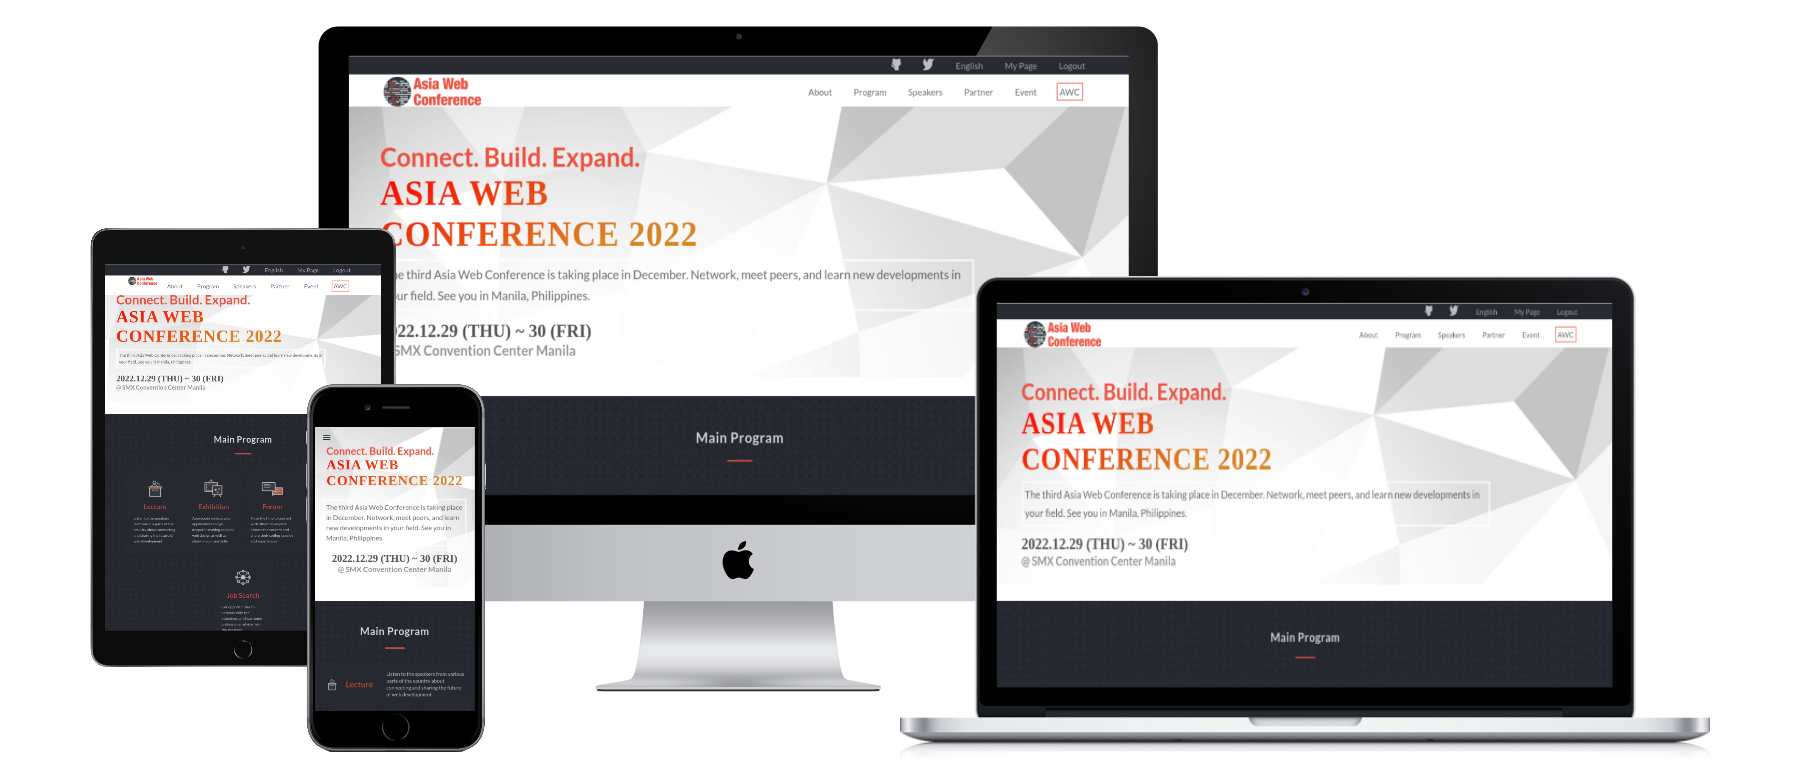
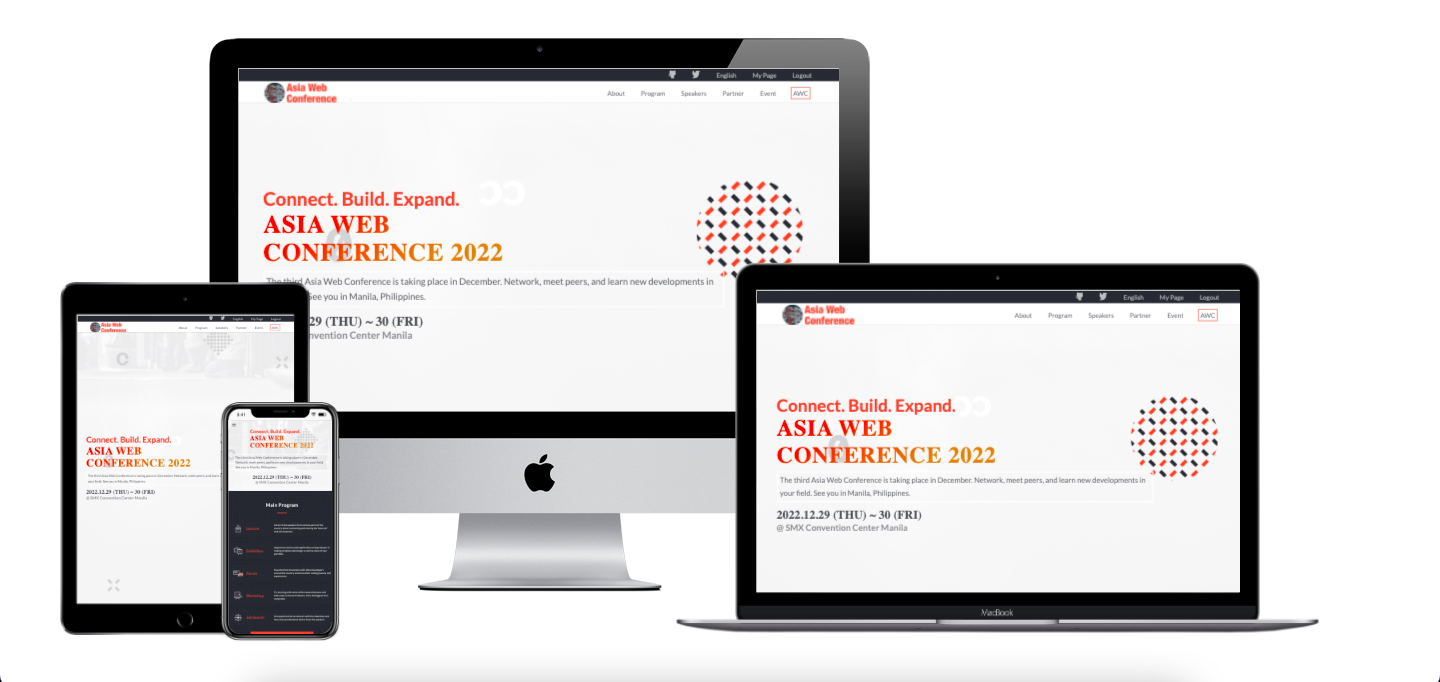
Update website mockup screenshot

diff --git a/README.md b/README.md
@@ -27,7 +27,7 @@
 - [x] Here is the loom video [link](https://www.loom.com/share/55f95314ade34700afcdbecec5137d7d)
 
 ## Website Mockup 📱 💻 🖥
-![all-devices-black](https://user-images.githubusercontent.com/98527559/166163767-7e50ab9c-0d97-4a38-a519-fce9a76943b7.png)
+![Screen Shot 2022-05-30 at 21 04 26](https://user-images.githubusercontent.com/98527559/171028995-c3a99b54-5f1f-42f1-833d-17a8ed6be926.png)
 
 ## Screenshots 📸
 Mobile and desktop version screenshots can be found in the repository.
@@ -114,11 +114,11 @@ Give a ⭐ if you like this project!
 - Code Reviewers
 - Original design idea by [Cindy Shin in Behance](https://www.behance.net/adagio07)
   ![Designer_Cindy_Shin](https://user-images.githubusercontent.com/98527559/162937760-e8f46c98-e5b0-4a56-b268-4bb0cb6a61b9.png)
-  
+
 - under the [Creative Commons license](https://creativecommons.org/licenses/by-nc/4.0/)
   ![License_Creative_Commons](https://user-images.githubusercontent.com/98527559/162938258-ca5c702c-41a6-4364-adc2-20d4bc10c27e.png)
 
-  
+
 
 ## 📝 License
 
